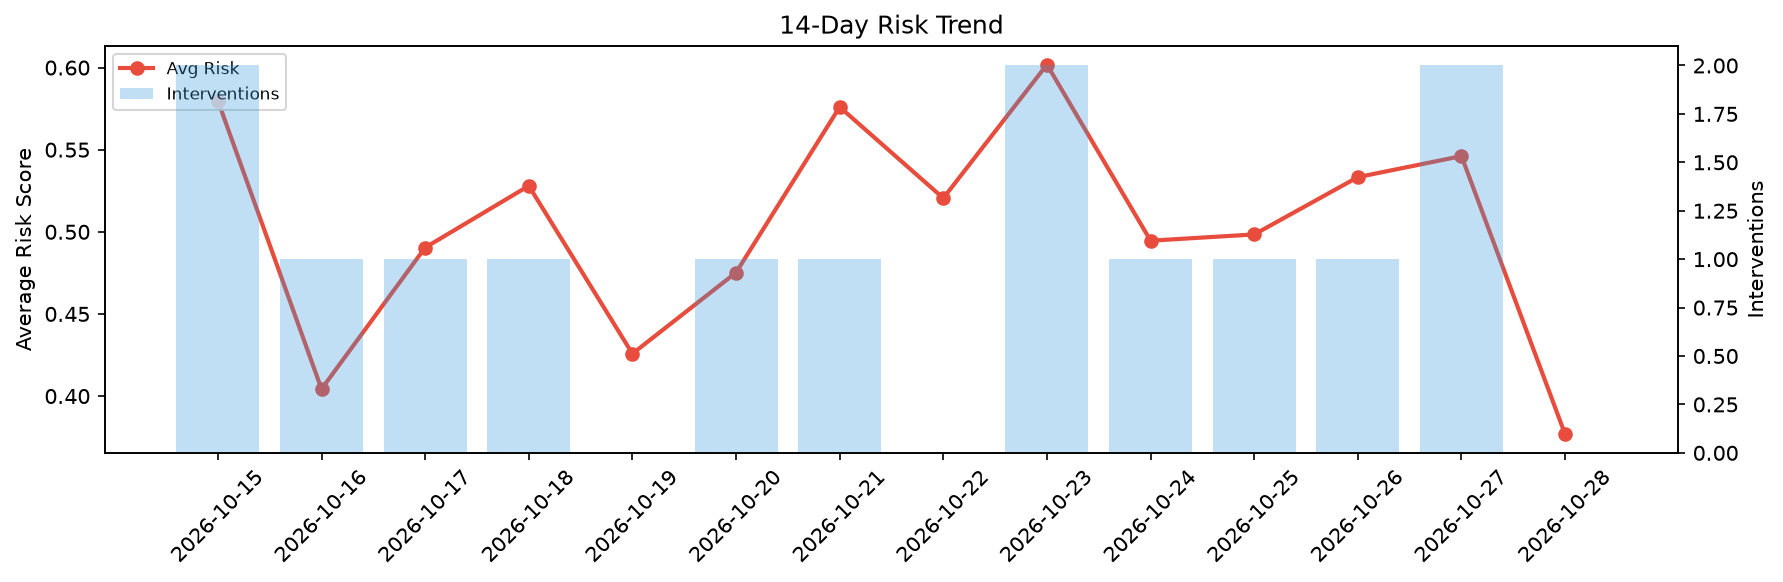
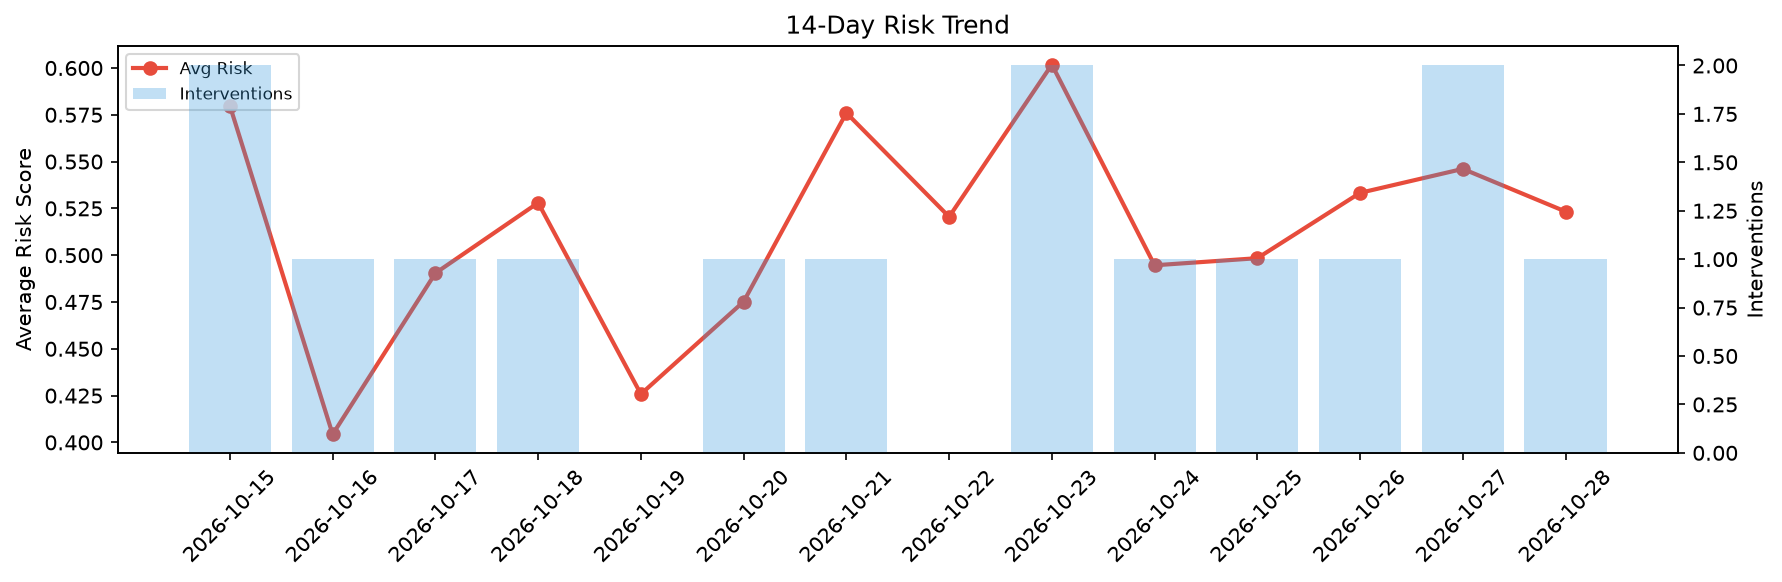
agent-improvement: daily cycle 2026-10-28T19:34

diff --git a/logs/2026-10-28.md b/logs/2026-10-28.md
@@ -1,6 +1,6 @@
 # Agent Improvement Report — 2026-10-28
 
-**Cycle ID:** `e5e01468` | **Avg Risk:** 0.3767 | **Interventions:** 0/4
+**Cycle ID:** `fa117423` | **Avg Risk:** 0.5233 | **Interventions:** 1/4
 
 ![Dashboard](2026-10-28_dashboard.png)
 
@@ -10,18 +10,18 @@
 
 | Domain | Risk Score | Decision | Alerts |
 |--------|-----------|----------|--------|
-| code_review | 0.4385 | monitor | none |
-| incident_response | 0.1758 | monitor | none |
-| data_pipeline | 0.5412 | monitor | none |
-| deployment | 0.3512 | monitor | none |
+| code_review | 0.5404 | monitor | coverage |
+| incident_response | 0.461 | monitor | none |
+| data_pipeline | 0.7218 | intervene | schema_drift, volume_anomaly |
+| deployment | 0.37 | monitor | latency_p99 |
 
 ## Delta vs Yesterday
 
 | Domain | Today | Yesterday | Change |
 |--------|-------|-----------|--------|
-| code_review | 0.4385 | 0.6835 | 📉 -35.8% |
-| incident_response | 0.1758 | 0.6584 | 📉 -73.3% |
-| data_pipeline | 0.5412 | 0.2532 | 📈 113.7% |
-| deployment | 0.3512 | 0.5892 | 📉 -40.4% |
+| code_review | 0.5404 | 0.6835 | 📉 -20.9% |
+| incident_response | 0.461 | 0.6584 | 📉 -30.0% |
+| data_pipeline | 0.7218 | 0.2532 | 📈 185.1% |
+| deployment | 0.37 | 0.5892 | 📉 -37.2% |
 
 **Refinement:** `{'adjustment': 'maintain', 'trend': 'improving', 'window': 4}`
